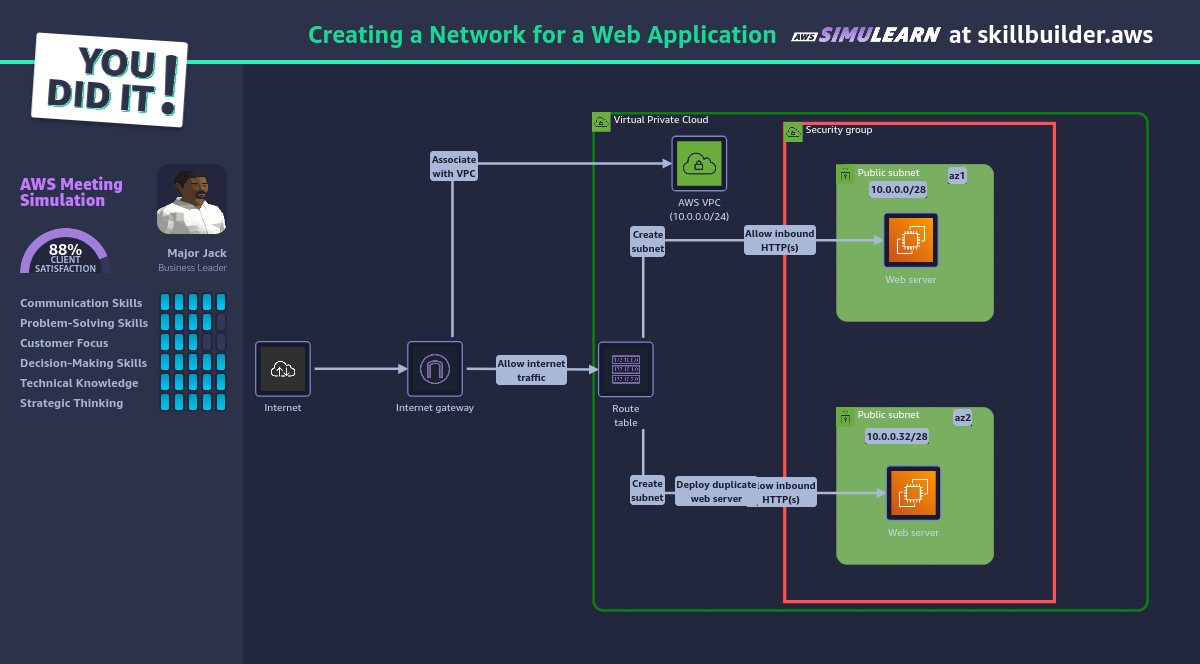
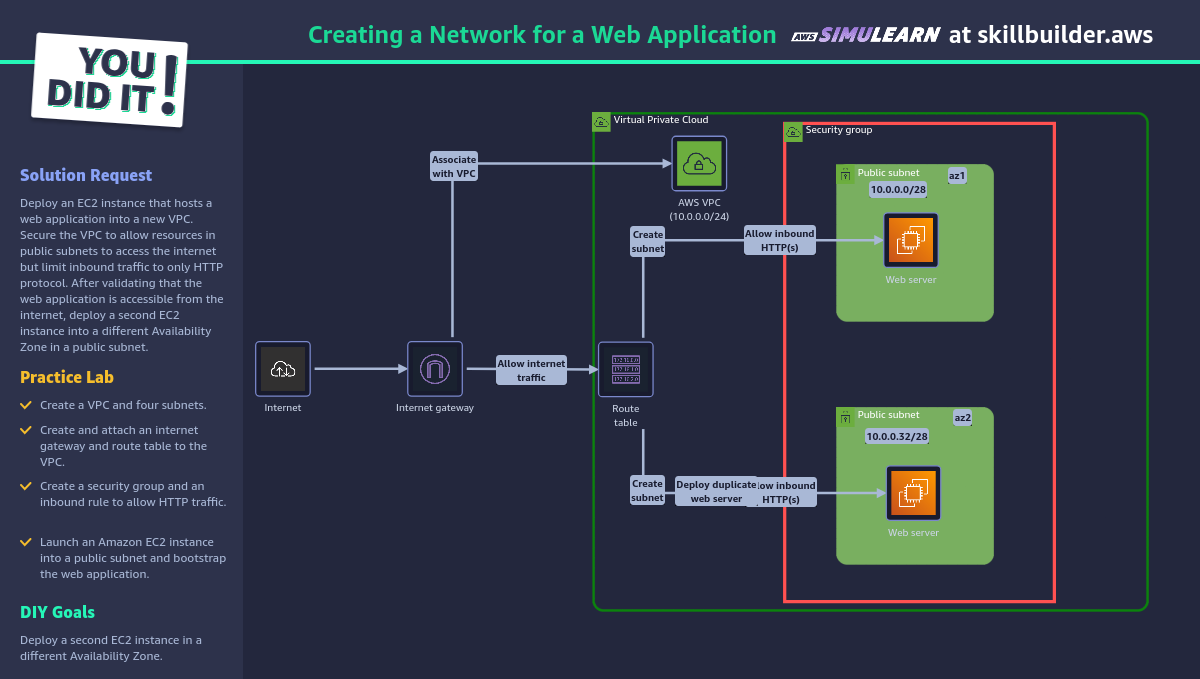
Completion of AWS SAA DIY Labs

diff --git a/labs/lab02-network-web-application/lab02-notes.md b/labs/lab02-network-web-application/lab02-notes.md
@@ -74,16 +74,57 @@ Deploy an EC2 instance that hosts a web application into a new VPC. Secure the V
 ## DIY Lab
 
 ### DIY Lab Goals
+Deploy a second EC2 instance in a different availablility zone. 
+
+Solution Validation Method
+Our validation service will validate that the VPC is configured with an internet gateway, route table, and security group. It will check that two public subnets and two private subnets exist. It will then confirm that two EC2 instances were deployed, each in a separate public subnet.
 
 ### Steps I took
+1. Navigate to VPC
+2. create new VPC `practice-vpc` 10.0.0.0/24
+3. create subnets`public a/b` private a/b  /28's 0, 16, 32, 48 
+4. create route table `practice-rtb` on practice vpc
+    - updated route table subnet association to include public a/b
+5. created internet gateway `practice-igw`, attached to VPC
+6. edit route table routes
+    - 0.0.0.0/0 to IGW
+7. Created security group `WebServer-Security-Group`, 
+    - edit inbound for http allow from anywhere
+8. Check S3 lab bucket for boot strap text
+    - download in case its different
+    - update with new bucket id
+9. EC2 Set up to launch instance `webserver1`
+    - kept amazon image, 6.1 ami, t3.micro, no keys, added security group. added IAM instance profile, loaded bootstrap
+    - network set to `practice-vpc` subnet `public-a`, allow auto assign public IP. 
+10. Had to rebuild security group due to not placing it with correct VPC initially. 
+11. success on webserver1, doing 2 now. but public-b
+
+
+
 
 
 
 ## Errors & Fixes
-- 
+- Didnt created the Internet gateway before creating route table. Was unable to set routing without gateway. VPC --> Gateway --> Subnets --> Route Tables --> Security Groups
+- copy and paste IGW ARN, it didnt show up in drop down. 
+- Trying to add IGW to RTB and getting an error that they belong to different networks. going to check that igw was created on practice vpc. 
+    - forgot to attach IGW to VPC after creatation. 
+    - Now that it is attached, it shows up in drop down, because it is on the same vpc network. 
+
+Secruity group is not a part of the proper VPC. Need to edit before can launch. There is an option to associate to VPC but it says I am unauthorised. I will delete and rebuild the security group. 
+
 
 ## Key Takeaways
-- 
+- The sequence of events matters a lot. It seems like working outward inward is the best step. First the VPC, then a Gateway, then the Subnets, then the route tables, then security groups. Only then are you ready to start created instances and servers. 
+
+- This lesson was good at the basics but it seems like there is a lot more fine tuning possible, and templates, and ways to automate. It is humbling to successfully complete these tasks when it used to feel so unfamiliar.  
+
+- I had multiple instances of not setting the correct vpc when creating things. I have to pay more attention, its very granular. 
+
+- Restarting the lab after the guided portion and diy portion ensured I had plenty of time, so I will continue to do that. 
+
 
 ## Next Time
-- 
+- I would use the training advice from "Think Like a Programmer" and make a plan. I thought I knew what to do, but I didnt sequence it properly leading to more work later. 
+
+- I would pay more attention to VPC settings.
